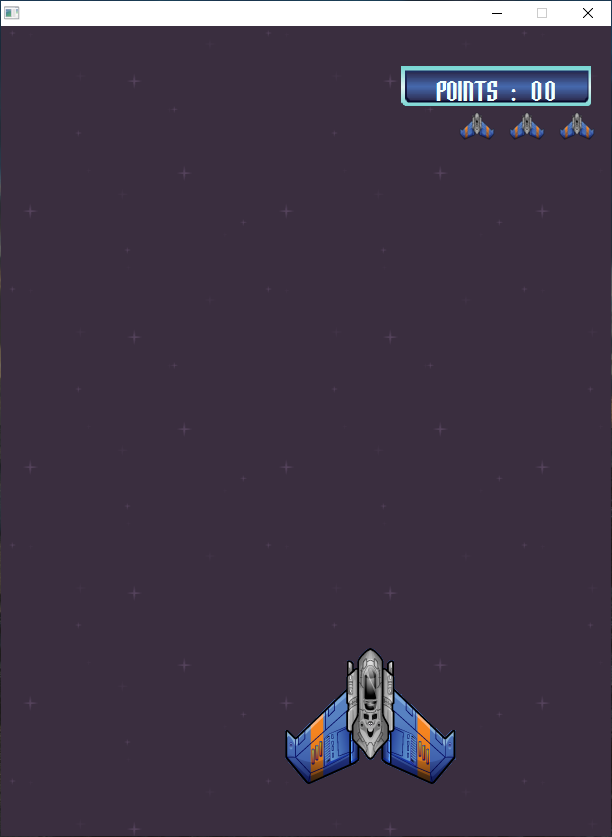
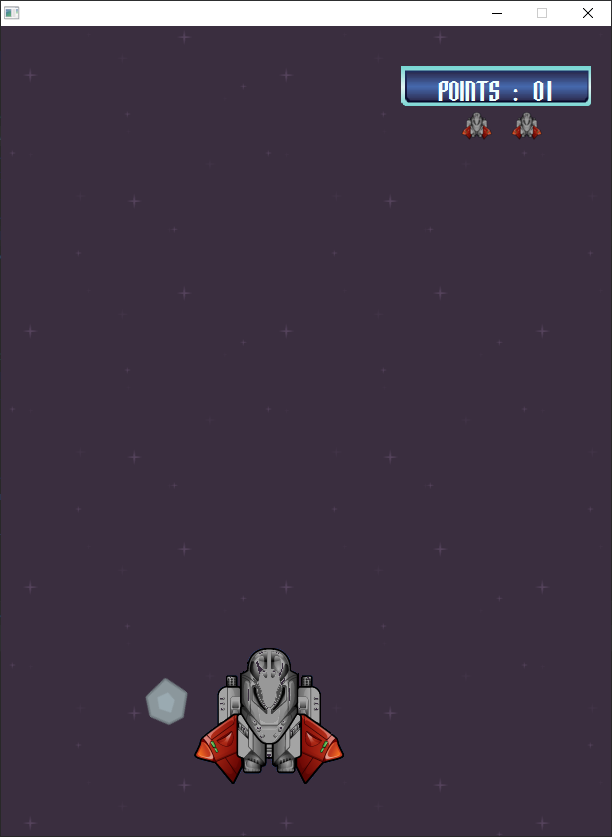
meteor

diff --git a/src/view/GameViewManager.java b/src/view/GameViewManager.java
@@ -243,11 +243,11 @@ public class GameViewManager {
         gameTimer = new AnimationTimer() {
             @Override
             public void handle(long now) {
-//                moveBackground();
-//                checkIfElementsAreBehindTheShipAndRelocate();
-//                checkifElementsCollide();
-//                moveGameElements();
-//                moveShip();
+                moveBackground();
+                checkIfElementsAreBehindTheShipAndRelocate();
+                checkifElementsCollide();
+                moveGameElements();
+                moveShip();
                 gameMode();
             }
         };
